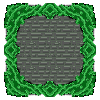
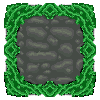
Testing

diff --git a/src/app/app.component.css b/src/app/app.component.css
@@ -4,8 +4,10 @@
     /*border-radius: 50% / 30%;*/
     border-width: 25px;
     border-image: url("./../assets/misc/vine.png") 25  fill repeat round;
-    width: 33vw;
-    height: 33vh;
+    /*width: 33vw;
+    height: 33vh;*/
+    width: 550px;
+    height: 325px;
     /*background: radial-gradient(circle, rgba(1, 202, 17,1), rgba(0, 76, 6, 1));*/
 	position: absolute;
 	top:0;
@@ -17,7 +19,7 @@
     animation-duration: 1s;
     -webkit-animation-name: fadeIn;
     animation-name: fadeIn;
-    overflow: hidden;
+    /*overflow: hidden;*/
 }
 h1 {
     top:0;
@@ -38,16 +40,32 @@ h1 {
 }
 
 .info{
-    /*float: left;*/
+    float: left;
     color: #fff;
     font-size: 22px;
     margin: 0;
-    padding: 2% 5%;
-    /*width: 80%;*/
+    padding: 2% 1%;
+    width: 55%;
 }
 
 .info h3{
     font-size: 10px;
+}
+
+.signin{
+    text-align: center;
+    height: 90%;
+    float: right;
+    padding: 1%;
+    margin:0;
+    margin-top: 2%;
+    width: 30%;
+    color:#fff;
+    /*margin:auto 0;*/
+    border-style: solid;
+    border-width: 25px;
+    border-image: url("./../assets/misc/vine.png") 25  fill repeat round;
+  
 }
 
 @-webkit-keyframes fadeIn {

diff --git a/src/app/auth/signin/signin.component.ts b/src/app/auth/signin/signin.component.ts
@@ -1,0 +1,21 @@
+import {Component} from '@angular/core';
+import {User} from '../user';
+
+@Component({
+    selector: 'signin',
+    template:`
+    <h2>Sign-in</h2>
+    <h3>Username</h3>
+    <input #username>
+    <h3>Password</h3>
+    <input #password>
+    <button (click)="signIn()">Sign-in</button>
+    `
+})
+export class SigninComponent {
+
+    signIn(){
+        console.log('Signin!');
+    }
+
+}

diff --git a/src/app/app.module.ts b/src/app/app.module.ts
@@ -4,10 +4,13 @@ import { FormsModule } from '@angular/forms';
 import { HttpModule } from '@angular/http';
 
 import { AppComponent } from './app.component';
+import { SigninComponent } from './auth/signin/signin.component';
+
 
 @NgModule({
   declarations: [
-    AppComponent
+    AppComponent,
+    SigninComponent
   ],
   imports: [
     BrowserModule,

diff --git a/src/app/app.component.ts b/src/app/app.component.ts
@@ -1,4 +1,5 @@
 import { Component } from '@angular/core';
+// import { SigninComponent } from './auth/signin/signin.component';
 
 @Component({
   selector: 'app-root',

diff --git a/src/app/auth/user.ts b/src/app/auth/user.ts
@@ -1,0 +1,8 @@
+export class User{
+
+    constructor(
+        public id: number,
+        public nickname: String,
+        public token?: String
+    ){}
+}

diff --git a/src/app/app.component.html b/src/app/app.component.html
@@ -4,5 +4,8 @@
       <div class="info">
       {{info}}
       </div>
+    <div class="signin">
+      <signin></signin>
+    </div>
     </div>
 </div>

diff --git a/src/app/auth/signin/signin.component.html b/src/app/auth/signin/signin.component.html
@@ -1,0 +1,1 @@
+<h1>Sign-in</h1>
